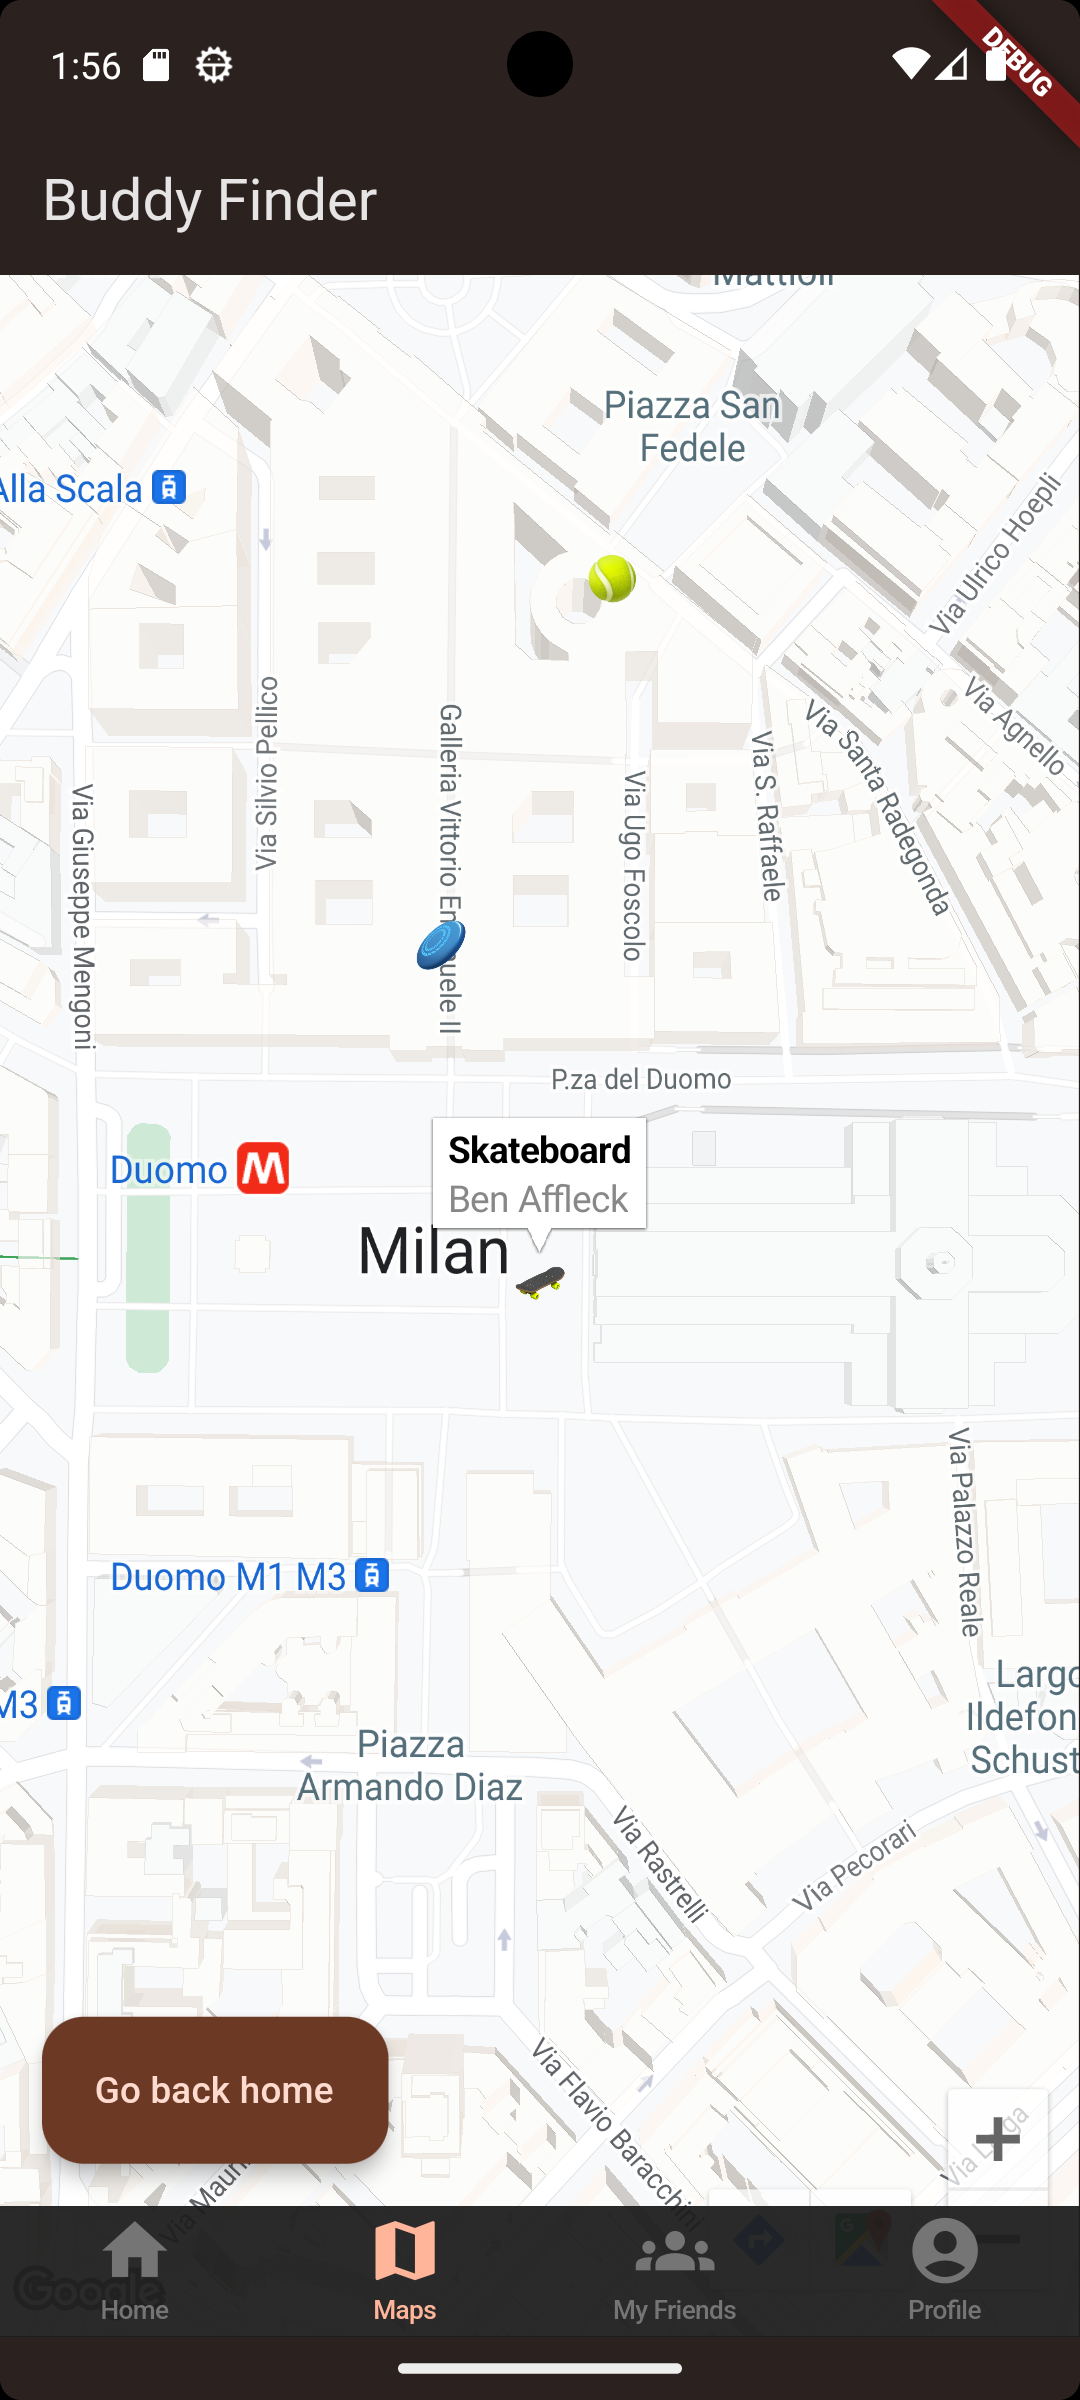
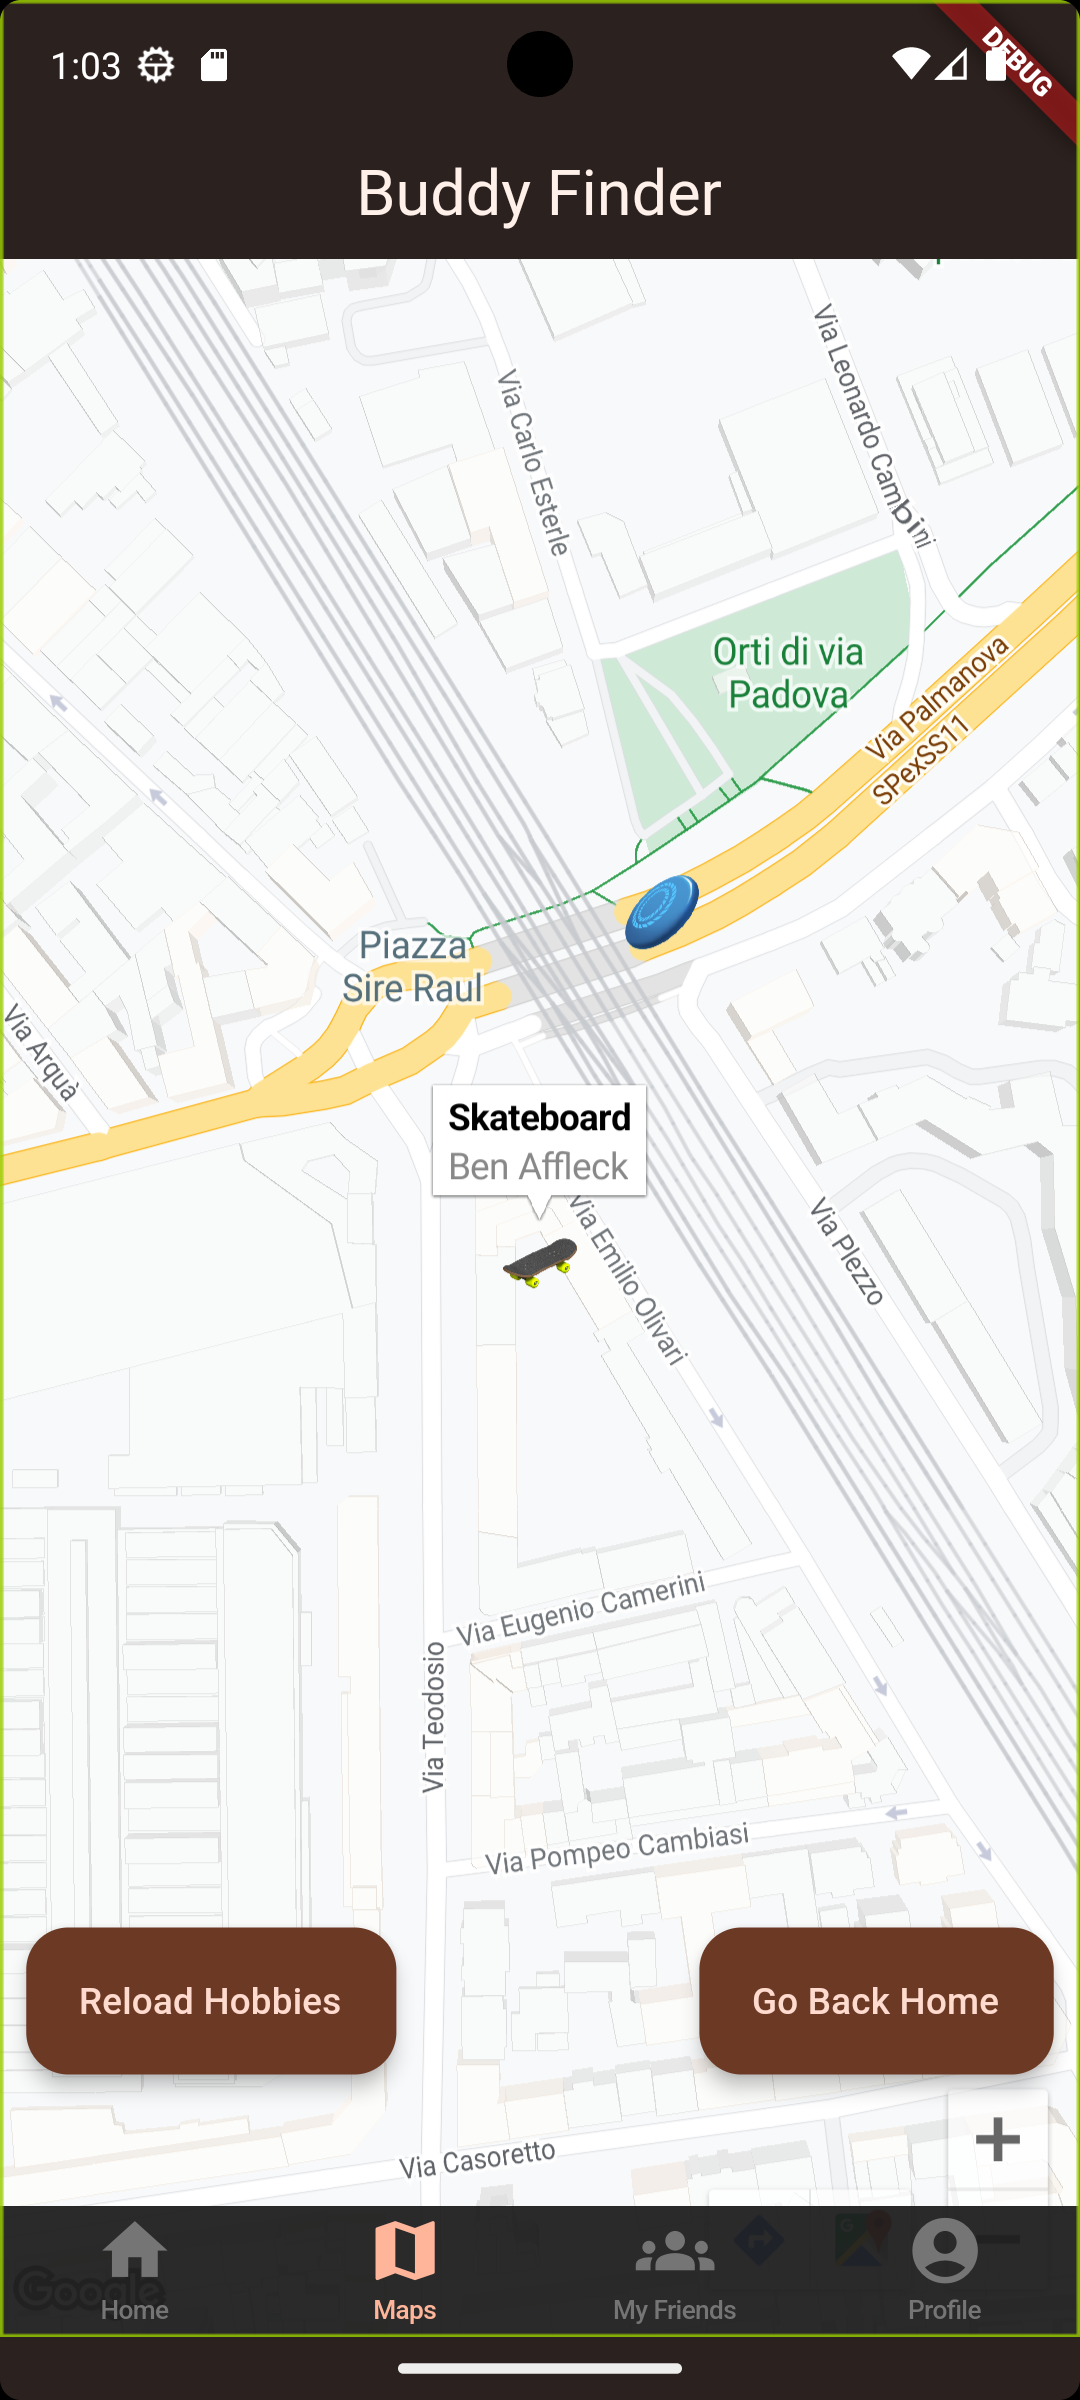
minor title fix to center

diff --git a/hobbybuddy/lib/screens/maps.dart b/hobbybuddy/lib/screens/maps.dart
@@ -1,6 +1,7 @@
 import 'package:flutter/material.dart';
 import 'package:google_maps_flutter/google_maps_flutter.dart';
 import 'package:hobbybuddy/services/firebase_firestore.dart';
+import 'package:hobbybuddy/widgets/app_bar.dart';
 import 'package:hobbybuddy/services/preferences.dart';
 
 const double startingZoom = 17;
@@ -10,13 +11,11 @@ class MapsScreen extends StatelessWidget {
 
   @override
   Widget build(BuildContext context) {
-    const appTitle = 'Buddy Finder';
-
-    return Scaffold(
-      appBar: AppBar(
-        title: const Text(appTitle),
+    return const Scaffold(
+      appBar: MyAppBar(
+        title: 'Buddy Finder',
       ),
-      body: const MapClass(),
+      body: MapClass(),
     );
   }
 }
